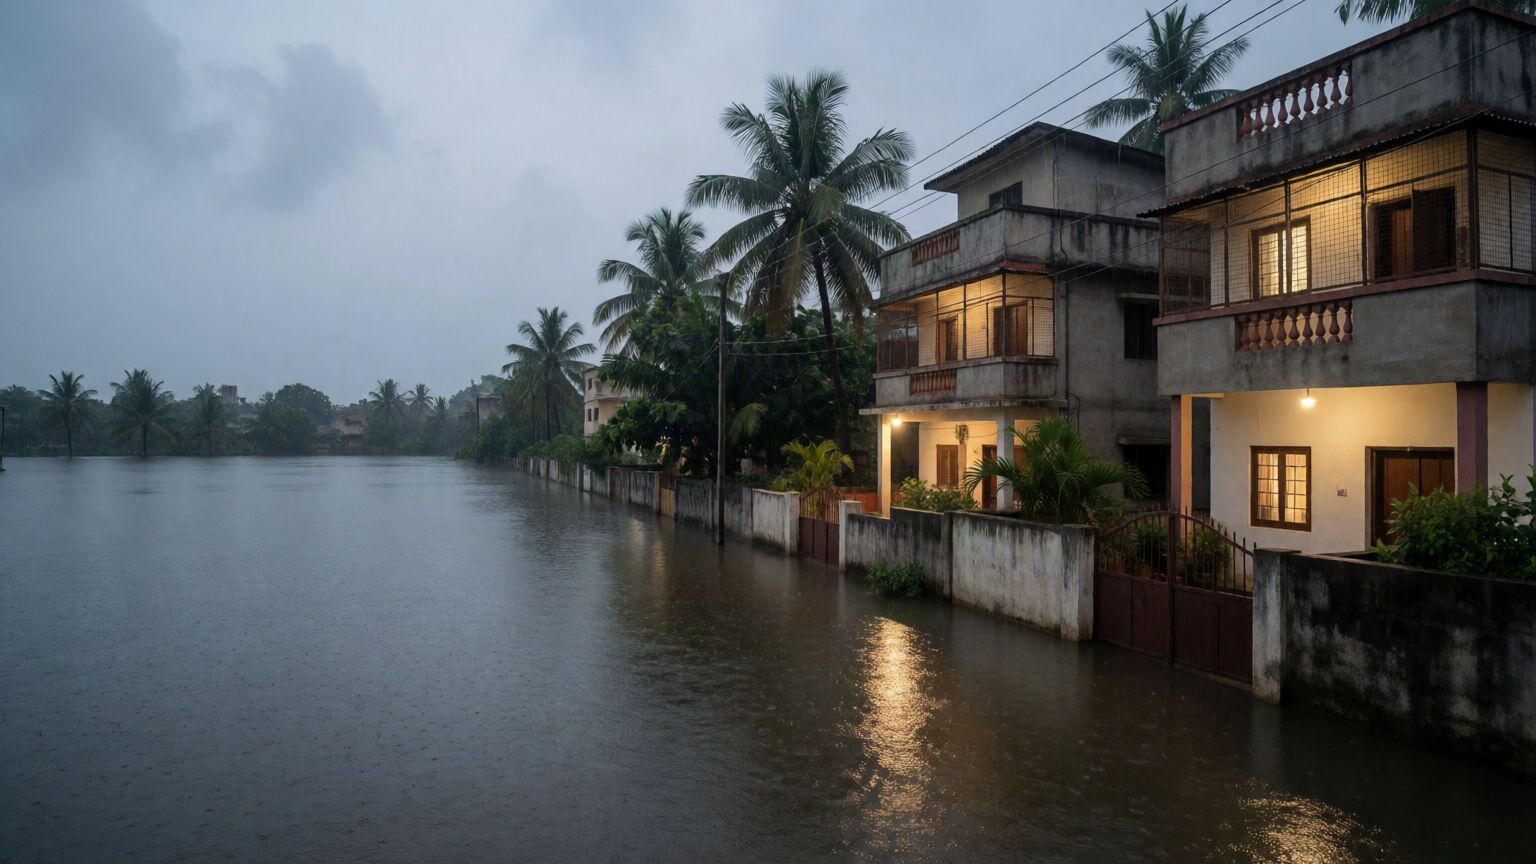
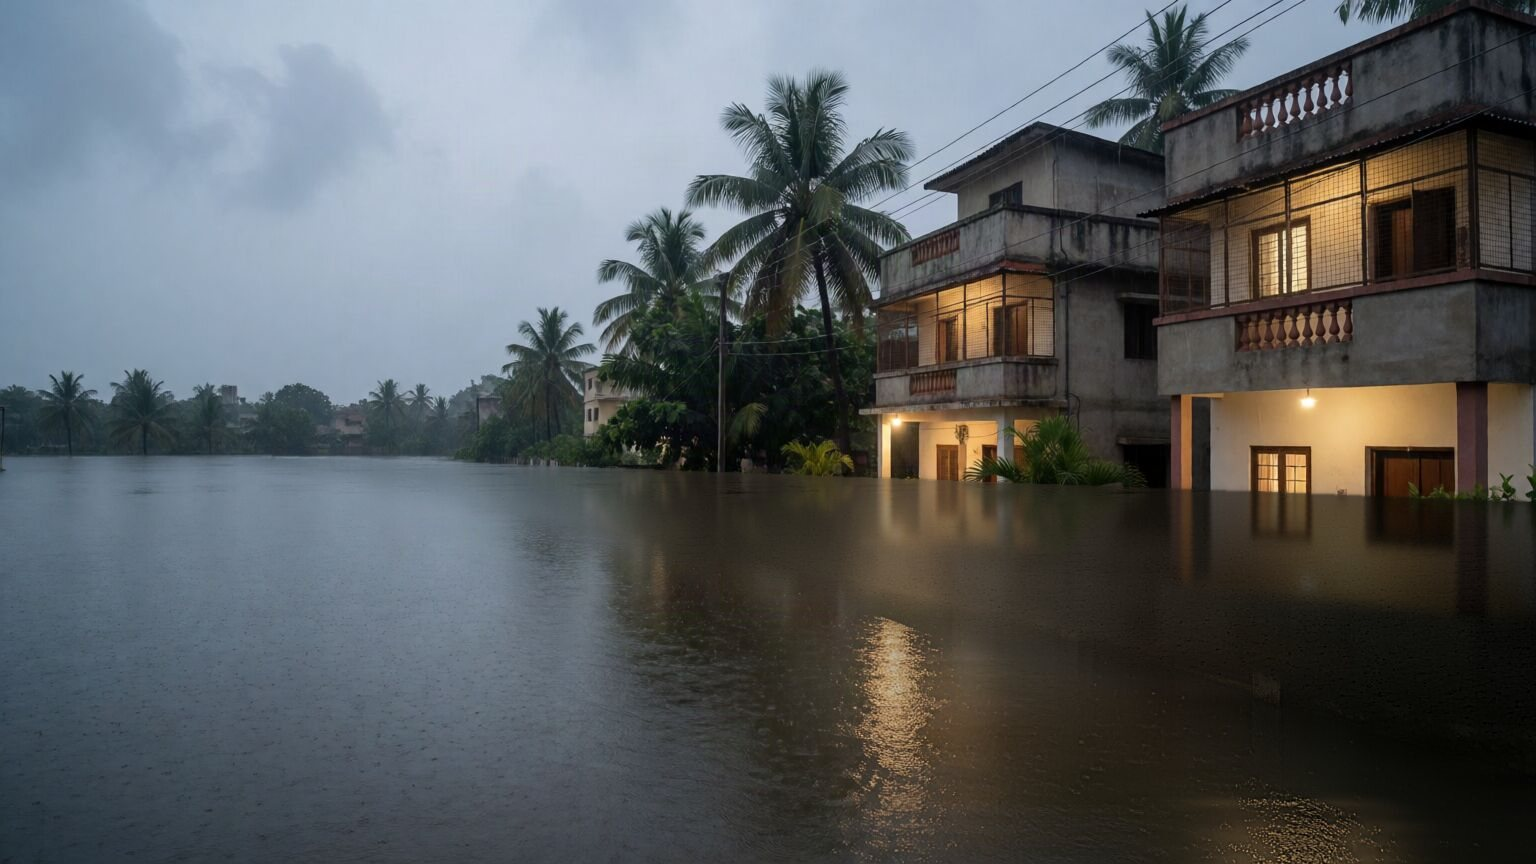
website: deeper floodwater in the hero image
Owner's request, with a real Chennai flood photo as the depth reference
(about 1.5 m). Same picture as before, with the water raised: compound
walls and gates are now under water and it comes about halfway up the
ground-floor windows and doors, with the lit windows reflected. Everything
above the water line is the original image. Done as a hand composite (a
level water line through the street's vanishing point, the photo's own
water continued upward, the houses' reflection below the line); the edit
models either redrew the scene or barely raised the water. The previous
image is in git history (hero.jpg at 453b4f0).

README: the owner's reference depth and composition notes for flood images.

Claude-Session: https://claude.ai/code/session_01U8CgoJxg35DPCNKxVa6cfq

Changed region(s): [[0.25, 0.5312, 1.0, 0.9375], [0.7812, 0.9062, 0.9062, 1.0], [0.9375, 0.7188, 1.0, 0.8438]]

diff --git a/website/README.md b/website/README.md
@@ -101,6 +101,7 @@ Put files in `assets/img/`.
 
 | Slot | What | Source |
 |---|---|---|
+| Hero background (`assets/img/hero.jpg`) | Flooded Chennai street at dusk, houses on the right, calm water on the left behind the headline | AI scene; water raised by hand on 4 Oct to the owner's reference depth (everything above the water line is the original image) |
 | `story-scene` | A flooded city street at dusk, ground floors under water, one lit window | AI scene (in place), no caption |
 | `product-unit` | The unit in a hand, screen lit, plain background | **Real photo** |
 | `product-street`, `product-neighbourhood`, `product-area`, `product-custom` | Boxed units stacked: 10, 25, 100 (or one photo of a stack for all four) | **Real photo** |
@@ -115,10 +116,20 @@ For Higgsfield, or any image or video generator. Never show the FloodMesh
 unit itself in AI output: product shots must be real photos. Drop finished files into the Google Drive
 folder "FloodMesh website" and they can be placed from there.
 
-- Water level: the owner wants severe floods, not knee-deep water. Add to
-  every flood prompt: "ground floors completely submerged, brown floodwater
-  up to the first-floor balconies and window sills, compound walls and
-  gates fully under water, only upper storeys and roofs above the water".
+- Water level: the owner's reference (4 Oct, a real Chennai flood photo) is
+  about 1.5 m: a parked car shows only its roof, compound walls and gates are
+  fully under water, ground-floor windows are about half under, and the
+  water is calm, silty grey-brown and nearly still. Add to every flood
+  prompt: "floodwater about 1.5 metres deep, compound walls and gates
+  completely under water, water halfway up the ground-floor doors and
+  windows, calm silty grey-brown water with reflections".
+- Composition: a street needs houses on both sides, or a close view. Open
+  water to a flat horizon reads as a lake or the sea (owner, 4 Oct).
+- Raising the water in an image we already like: image-edit models (FLUX.2
+  edit, Kontext, Qwen edit) either redraw the whole scene or barely move the
+  water. A hand composite works better: a level water line through the
+  street's vanishing point, the photo's own water continued above the old
+  water line, and the houses' reflection below the new line.
 - `story-scene` (still, 16:9 or 4:3): "Documentary photograph of a
   residential lane in Chennai in a severe flood at dusk, [water level as
   above], flat-roofed concrete houses with square metal grill balconies, a
